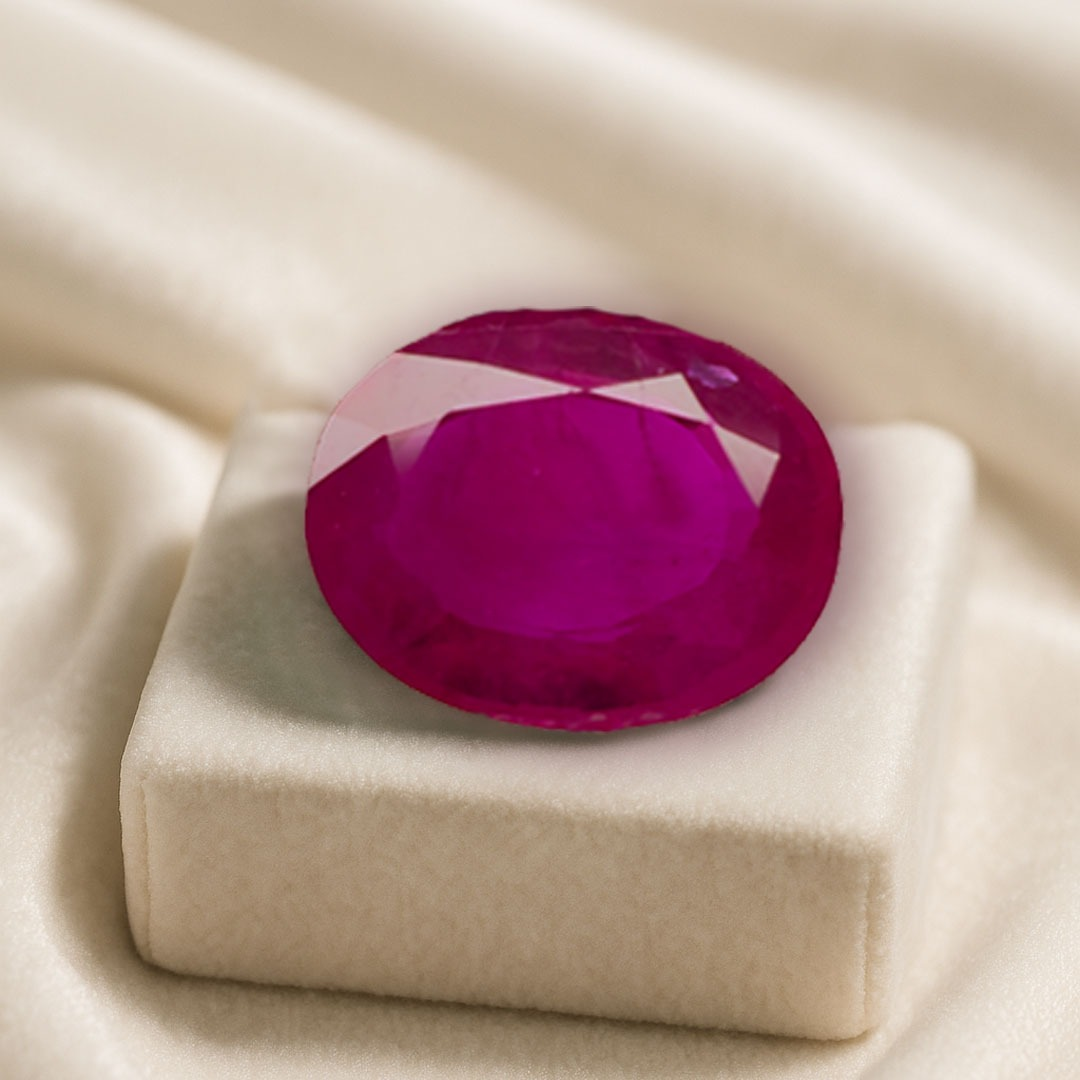
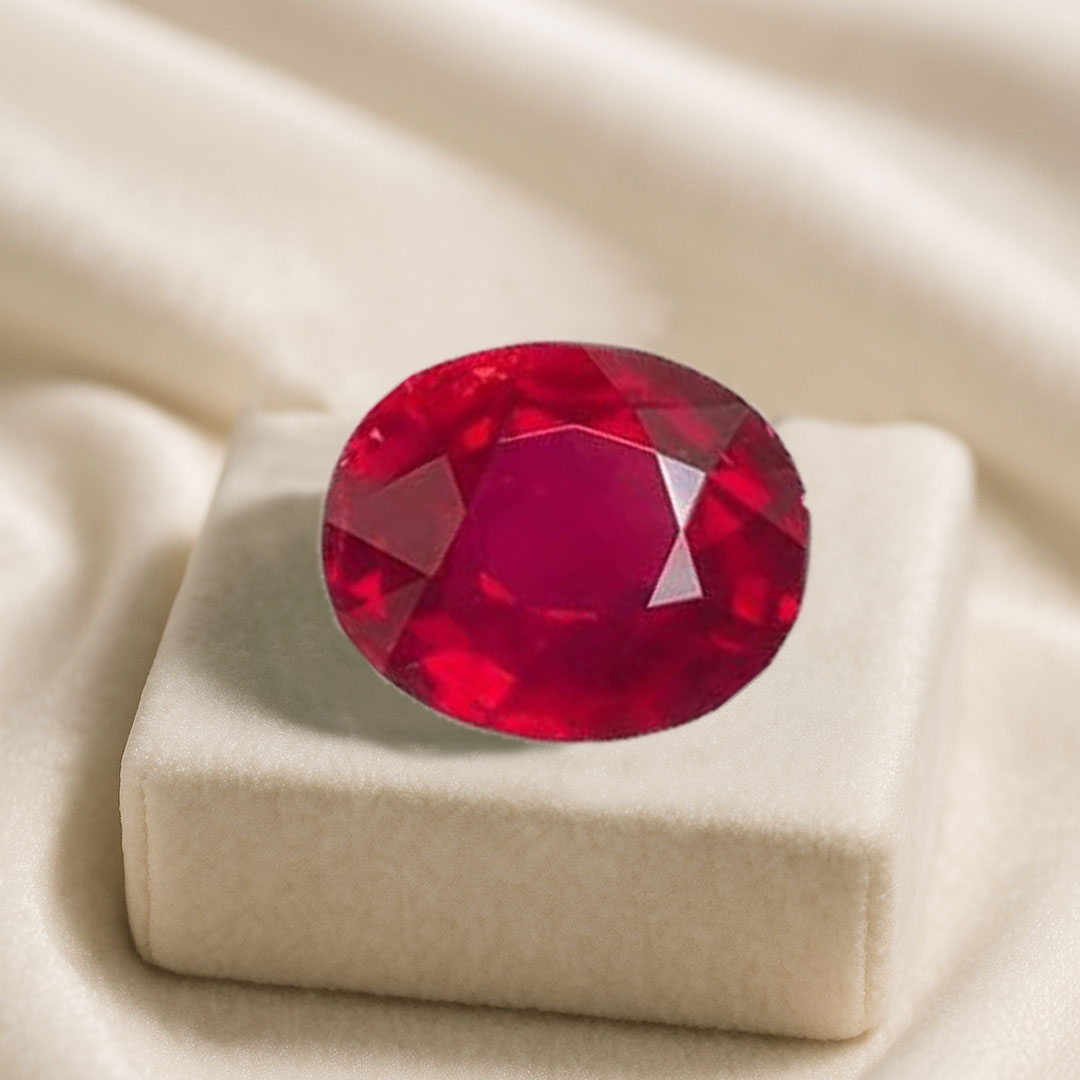
added new images

Changed region(s): [[0.275, 0.2444, 0.825, 0.7333]]

diff --git a/components/newHome/SocialSection.tsx b/components/newHome/SocialSection.tsx
@@ -12,6 +12,10 @@ import img1 from "@/public/newHome/buildOnCraft/img2.jpg";
 import img2 from "@/public/newHome/CategoriesSection/img4.jpg";
 import img3 from "@/public/saphhireRing.jpeg";
 import img4 from "@/public/newHome/CategoriesSection/sami-precease.jpg";
+import img5 from "@/public/newHome/socialSection/handBracelet.jpg";
+import img6 from "@/public/newHome/socialSection/greenNecklace.jpg";
+import img7 from "@/public/newHome/socialSection/semiprecious-yellow-ring.jpg";
+import img8 from "@/public/newHome/socialSection/greenRing.jpg";
 
 const playFair = Playfair_Display({
     subsets: ["latin"],
@@ -25,13 +29,13 @@ const jost = Jost({
 
 const images = [
     { src: img1, alt: "Instagram post 1" },
-    { src: img2, alt: "Instagram post 2" },
+    { src: img5, alt: "Instagram post 2" },
     { src: img3, alt: "Instagram post 3" },
-    { src: img4, alt: "Instagram post 4" },
+    { src: img7, alt: "Instagram post 4" },
     { src: img2, alt: "Instagram post 5" },
-    { src: img3, alt: "Instagram post 6" },
-    { src: img1, alt: "Instagram post 7" },
-    { src: img4, alt: "Instagram post 8" },
+    { src: img6, alt: "Instagram post 6" },
+    { src: img4, alt: "Instagram post 7" },
+    { src: img8, alt: "Instagram post 8" },
 ];
 
 const SocialSection = () => {

diff --git a/components/newHome/DiamondCertificates.tsx b/components/newHome/DiamondCertificates.tsx
@@ -1,6 +1,6 @@
 import Image from "next/image";
 import React from "react";
-// import cert1 from "@/public/certificates/giaCert.jpg";
+import cert1 from "@/public/newHome/DiamondCertficates/AGL.jpg";
 import cert2 from "@/public/newHome/DiamondCertficates/cert1.png";
 import cert3 from "@/public/newHome/DiamondCertficates/cert2.png";
 import cert4 from "@/public/newHome/DiamondCertficates/cert3.png";
@@ -42,14 +42,14 @@ const fadeIn: Variants = {
 };
 
 const certificateData = [
-    // {
-    //     id: 1,
-    //     image: cert1,
-    //     title: "GIA-CERTIFICATE",
-    //     description:
-    //         "When buying a gem, its grading is a key focus. The grading certificate serves as its identity, proving quality and authenticity.",
-    //     alt: "GIA Certificate",
-    // },
+    {
+        id: 1,
+        image: cert1,
+        title: "AGL-CERTIFICATE",
+        description:
+            "The American Gemological Laboratories (AGL) is a globally recognized authority in gemstone certification, renowned for its expertise in colored stone analysis. ",
+        alt: "AGL Certificate",
+    },
     {
         id: 2,
         image: cert2,

diff --git a/components/newAboutUs/BannerSection.tsx b/components/newAboutUs/BannerSection.tsx
@@ -4,7 +4,7 @@ import React from "react";
 import Image from "next/image";
 import Link from "next/link";
 import { Marcellus } from "next/font/google";
-import bannerImage from "@/public/newAboutUs/banner-aboutus2.jpg";
+import bannerImage from "@/public/newAboutUs/banner3.jpg";
 
 const marcellus = Marcellus({
     subsets: ["latin"],
@@ -29,7 +29,11 @@ const BannerSection: React.FC<BannerSectionProps> = ({
     children,
 }) => {
     return (
-        <section id="subheader" className="relative text-white py-18">
+        <section
+            id="subheader"
+            className="relative text-white py-23
+        "
+        >
             <Image
                 src={bannerImage}
                 className="object-cover"

diff --git a/components/newHome/CategoriesSection.tsx b/components/newHome/CategoriesSection.tsx
@@ -5,7 +5,7 @@ import Image from "next/image";
 import fig1 from "@/public/newHome/green-ring.jpg";
 import fig2 from "@/public/newHome/green-pendant.jpg";
 import fig3 from "@/public/newHome/yelloe-Ring2.jpg";
-import fig4 from "@/public/newHome/purple-gem.jpg";
+import fig4 from "@/public/newHome/Red-gem.jpg";
 import Link from "next/link";
 import {
     Carousel,
